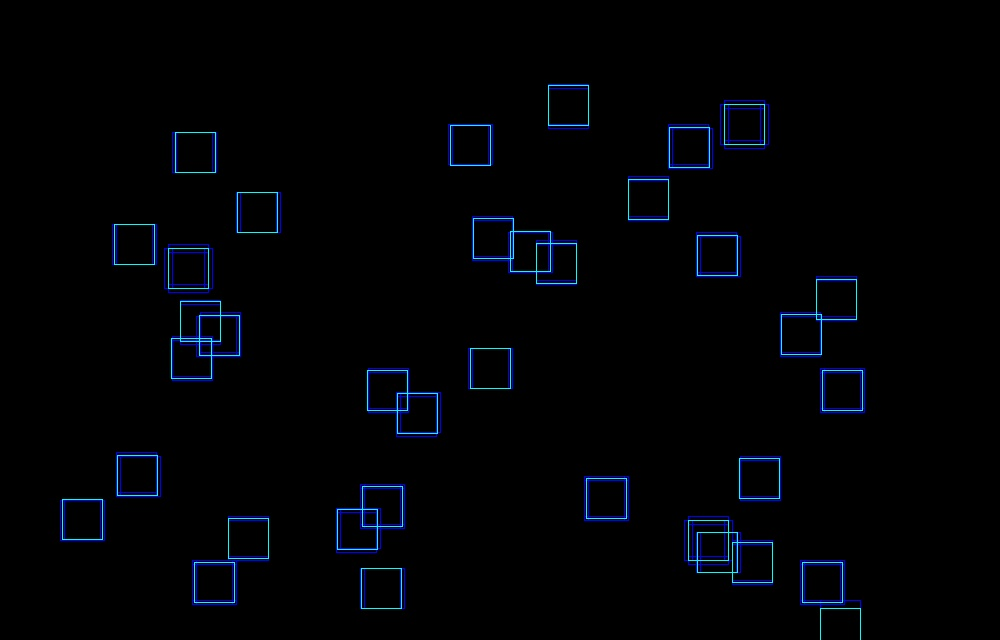
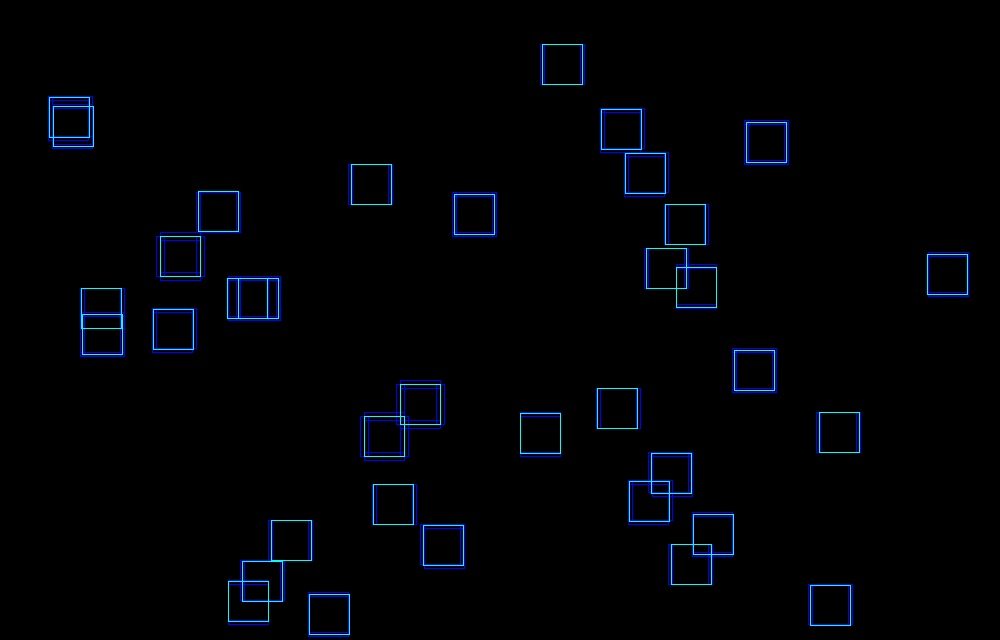
3D投影有bug

diff --git a/detectors/OFTTrainer.py b/detectors/OFTTrainer.py
@@ -122,7 +122,7 @@ class OFTtrainer(BaseTrainer):
             # ----------------ROI------------------------------
             # 还需要在双视角下的回归gt，以及筛选过后的分类gt，gt_left_loc, gt_left_label, gt_right_loc, gt_right_label
             all_gt_label = torch.zeros((0, 1)).to("cuda:0")
-            all_roi_score = torch.zeros((0, 1)).to("cuda:1")
+            all_roi_score = torch.zeros((0, 2)).to("cuda:1")
             all_gt_roi_loc = torch.zeros((0, 4)).to("cuda:0")
             all_roi_loc = torch.zeros((0, 4)).to("cuda:1")
 
@@ -132,7 +132,7 @@ class OFTtrainer(BaseTrainer):
                     at.tonumpy(gt_bev_bbox),
                     at.tonumpy(cls),
                     gt_percam_bbox[cam],
-                    extrin, intrin, frame,
+                    extrin[cam], intrin[cam], frame,
                     self.loc_normalize_mean,
                     self.loc_normalize_std)
                 # print(bbox_2d.shape, sample_roi.shape, gt_loc.shape, gt_label.shape) # (256, 4) (256, 4) (256, 4) (256, 1)
@@ -146,26 +146,28 @@ class OFTtrainer(BaseTrainer):
 
                 n_sample = roi_cls_loc.shape[0]
                 roi_cls_loc = roi_cls_loc.view(n_sample, -1, 4)
-                print("aaa", roi_cls_loc.shape)
-                roi_loc = roi_cls_loc[torch.arange(0, n_sample).long().cuda(), at.totensor(gt_label).long()]
-                print("bbb", roi_cls_loc.shape, torch.arange(0, n_sample).long().shape, at.totensor(gt_label).long().shape, n_sample)
+                # print("aaa", roi_cls_loc.shape)
+                roi_loc = roi_cls_loc[torch.arange(0, n_sample).long().cuda(), at.totensor(gt_label.reshape(-1)).long()]
+                # print("bbb", roi_cls_loc.shape, torch.arange(0, n_sample).long().shape, at.totensor(gt_label).long().shape, n_sample)
                 gt_label = at.totensor(gt_label).long()
                 gt_loc = at.totensor(gt_loc)
-                print(gt_label.shape,gt_loc.shape, roi_loc.shape,roi_score.shape)
+                # print(gt_label.shape,gt_loc.shape, roi_loc.shape,roi_score.shape)
 
                 all_gt_label = torch.cat((all_gt_label, gt_label), dim=0)
                 all_gt_roi_loc = torch.cat((all_gt_roi_loc, gt_loc), dim=0)
                 all_roi_loc = torch.cat((all_roi_loc, roi_loc), dim=0)
                 all_roi_score = torch.cat((all_roi_score, roi_score), dim=0)
 
-            print(all_gt_label.shape, all_gt_roi_loc.shape, all_roi_loc.shape, all_roi_score.shape)
+            # print(all_gt_label.shape, all_gt_roi_loc.shape, all_roi_loc.shape, all_roi_score.shape)
 
             all_roi_loc_loss = _fast_rcnn_loc_loss(
                 all_roi_loc.contiguous(),
                 all_gt_roi_loc,
                 all_gt_label.data,
                 1)
-            all_roi_cls_loss = nn.CrossEntropyLoss()(all_roi_score, all_gt_label.to(all_roi_score.device))
+            # print(all_roi_loc[:10], all_gt_roi_loc[:10])
+            # print(all_roi_score.shape, all_gt_label.shape)
+            all_roi_cls_loss = nn.CrossEntropyLoss()(all_roi_score, all_gt_label.squeeze().to(all_roi_score.device).long())
             # print(all_sincos_loss)
             # print(all_pred_sincos, all_gt_sincos)
             # --------------------测试roi pooling------------------------

diff --git a/detectors/models/utils/creator_tool.py b/detectors/models/utils/creator_tool.py
@@ -249,7 +249,7 @@ class ProposalTargetCreator_percam(object):
             y = (bbox[0] + bbox[2]) / 2
             x = (bbox[1] + bbox[3]) / 2
             z = 0
-            pt2d = getimage_pt(np.array([x, Const.grid_height - y, z]).reshape(3,1), extrin[0][0], intrin[0][0])
+            pt2d = getimage_pt(np.array([x, Const.grid_height - y, z]).reshape(3,1), extrin[0], intrin[0])
             if 0 < int(pt2d[0]) < Const.ori_img_width and 0 < int(pt2d[1]) < Const.ori_img_height:
                 roi_remain_idx.append(id)
         rois = roi[roi_remain_idx]
@@ -290,16 +290,18 @@ class ProposalTargetCreator_percam(object):
 
         sample_roi = roi[keep_index]
 
-        # -------------------------------right--------------------------------------
         # ------------------------开始转换坐标-------------------------
+
         roi_3d = generate_3d_bbox(sample_roi)
-        bbox_2d = getprojected_3dbox(roi_3d, extrin[0][0], intrin[0][0])
+        print(roi_3d[:10])
+        bbox_2d = getprojected_3dbox(roi_3d, extrin[0], intrin[0])
+        print(roi_3d[:10])
         bbox_2d = get_outter(bbox_2d)
 
-        gt_roi_loc = bbox2loc(bbox_2d, gt_bbox[gt_assignment[keep_index]])
 
-        gt_loc = ((gt_roi_loc - np.array(loc_normalize_mean, np.float32)
-                       ) / np.array(loc_normalize_std, np.float32))
+
+        gt_roi_loc = bbox2loc(bbox_2d, gt_bbox[gt_assignment[keep_index]])
+        gt_loc = ((gt_roi_loc - np.array(loc_normalize_mean, np.float32)) / np.array(loc_normalize_std, np.float32))
 
         return bbox_2d, sample_roi, gt_loc, gt_label, len(pos_index)
 
@@ -429,6 +431,7 @@ class ProposalTargetCreator_ori(object):
 
         gt_roi_loc = ((gt_roi_loc - np.array(loc_normalize_mean, np.float32)
                        ) / np.array(loc_normalize_std, np.float32))
+
         return sample_roi, gt_roi_loc, gt_roi_label
 
 class AnchorTargetCreator(object):

diff --git a/detectors/models/VGG16Head.py b/detectors/models/VGG16Head.py
@@ -28,8 +28,8 @@ class VGG16RoIHead(nn.Module):
         #                                  nn.Conv2d(512, 512, kernel_size=3, stride=1, padding=1),
         #                                  nn.LeakyReLU(True),
         #                                  ).to("cuda:0")
-
-        self.classifier = nn.Sequential(nn.Linear(25088, 1024, bias=True),
+        # 25044
+        self.classifier = nn.Sequential(nn.Linear(12544, 1024, bias=True),
                                    nn.ReLU(inplace=True),
                                    nn.Dropout(p=0.5, inplace=False),
                                    nn.Linear(1024, 1024, bias=True),
@@ -94,13 +94,10 @@ class VGG16RoIHead(nn.Module):
         pool = pool.view(pool.size(0), -1)
         # print(self.classifier)
         # print(pool.shape)
+        print(pool.shape)
         fc7 = self.classifier(pool)
         roi_cls_locs = self.cls_loc(fc7)
         roi_scores = self.score(fc7)
-        # print(sin_cos)
-        # sin_cos = F.normalize(sin_cos, dim=1)
-        # print(sin_cos)
-        print("dzc", roi_cls_locs.shape)
         return roi_cls_locs, roi_scores
 
 

diff --git a/detectors/models/persp_trans_detector.py b/detectors/models/persp_trans_detector.py
@@ -49,8 +49,8 @@ class PerspTransDetector(nn.Module):
             self.proj_mats = [torch.from_numpy(map_zoom_mat @ imgcoord2worldgrid_matrices[cam] @ img_zoom_mat)
                               for cam in range(self.num_cam)]
 
-        self.backbone = nn.Sequential(*list(resnet18(pretrained=True, replace_stride_with_dilation=[False, False, False]).children())[:-2]).to('cuda:0')
-        self.rpn = RegionProposalNetwork(in_channels=3074, mid_channels=3074, ratios=[1], anchor_scales=[2.5 * (4 / (Const.reduce))]).to('cuda:1')
+        self.backbone = nn.Sequential(*list(resnet18(pretrained=True, replace_stride_with_dilation=[False, False, False]).children())[:-3]).to('cuda:0')
+        self.rpn = RegionProposalNetwork(in_channels=1538, mid_channels=1538, ratios=[1], anchor_scales=[2.5 * (4 / (Const.reduce))]).to('cuda:1')
         # my_cls = nn.Sequential(nn.Linear(25088, 2048, bias=True),
         #                        nn.ReLU(inplace=True),
         #                        nn.Dropout(p=0.5, inplace=False),

diff --git a/detectors/models/utils/bbox_tools.py b/detectors/models/utils/bbox_tools.py
@@ -3,7 +3,7 @@ import numpy as xp
 
 import six
 from six import __init__
-
+import torch
 
 def loc2bbox(src_bbox, loc):
     """Decode bounding boxes from bounding box offsets and scales.
@@ -137,7 +137,9 @@ def bbox2loc(src_bbox, dst_bbox):
     dx = (base_ctr_x - ctr_x) / width
     dh = xp.log(base_height / height)
     dw = xp.log(base_width / width)
-
+    # print(base_height[:5], height[:5], dw[:5])
+    # if dw == -np.inf:
+    #     print("aaa", base_width/ width, base_width, width)
     loc = xp.vstack((dy, dx, dh, dw)).transpose()
     return loc
 

diff --git a/EX_CONST.py b/EX_CONST.py
@@ -31,7 +31,7 @@ class Const:
 
     car_length = 60
 
-    car_height = 40
+    car_height = 170
 
     #------------------------------
     nms_left = 4
